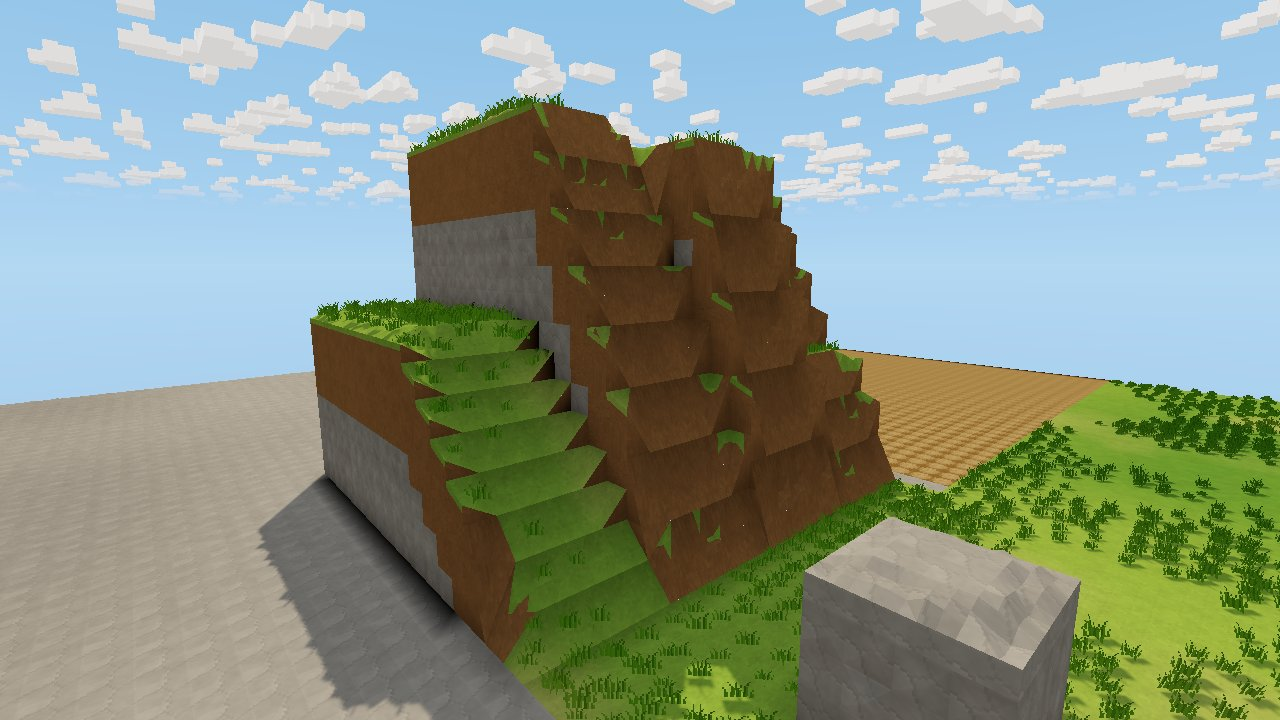
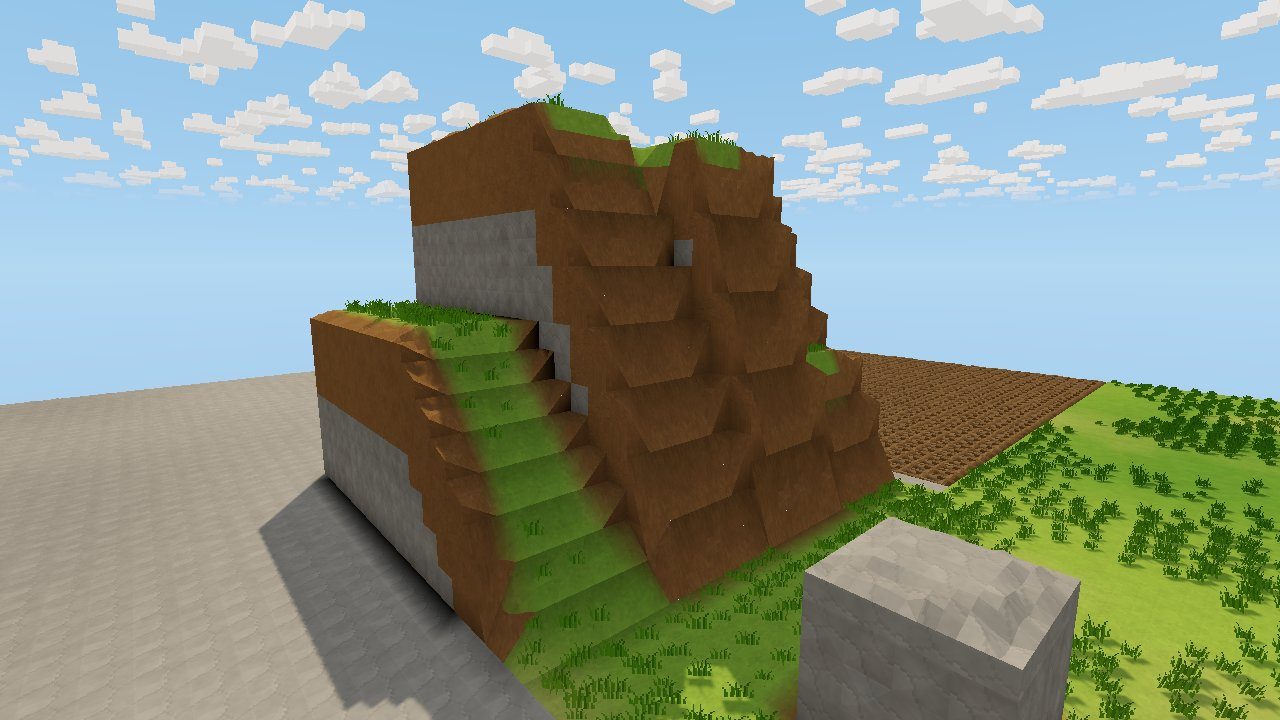
Decide grass versus earth with a continuous steepness field
Grass cover on shaped tops, flat tops, lips and tufts now follows a smooth
world-space terrain gradient from neighboring column tops instead of a
per-cell facet test, so irregular steep hillsides read as one coherent
earth bank. Steepness is memoized per build.

diff --git a/src/voxel/mesher.rs b/src/voxel/mesher.rs
@@ -511,6 +511,7 @@ pub fn build_chunk_mesh(world: &World, chunk: &Chunk) -> MeshData {
                         &mut vertices,
                         &mut indices,
                         &sample,
+                        &shapes,
                         block,
                         shape,
                         (wx, ly, wz),
@@ -523,7 +524,9 @@ pub fn build_chunk_mesh(world: &World, chunk: &Chunk) -> MeshData {
                     && sample(wx, ly + 1, wz) != BlockType::Water
                 {
                     // No tufts on steep banks (their surface dips below this cell).
-                    if shape.as_ref().map_or(true, |s| s.corners.iter().all(|&h| h >= -0.01)) {
+                    if shape.as_ref().map_or(true, |s| s.corners.iter().all(|&h| h >= -0.01))
+                        && shapes.grass_cover([wx as f32 + 0.5, ly as f32 + 1.0, wz as f32 + 0.5]) > 0.5
+                    {
                         push_tufts(&mut vertices, &mut indices, shape.as_ref(), (wx, ly, wz));
                     }
                 }
@@ -654,8 +657,13 @@ pub fn build_chunk_mesh(world: &World, chunk: &Chunk) -> MeshData {
                             // Only a near-level shelf edge gets the lip; steep
                             // bank edges stay earth rather than a green stripe.
                             Some(Palette::Grass) => {
+                                let edge_mid = {
+                                    let [c0, c1, ..] = FACE_VERTS[face_idx];
+                                    [wx as f32 + (c0[0] + c1[0]) * 0.5, ly as f32 + 1.0, wz as f32 + (c0[2] + c1[2]) * 0.5]
+                                };
                                 let shelf = top.iter().all(|&h| (0.4..=1.0001).contains(&h))
-                                    && (top[1] - top[0]).abs() <= 1.0;
+                                    && (top[1] - top[0]).abs() <= 1.0
+                                    && shapes.grass_cover(edge_mid) > 0.5;
                                 let lip = top.map(|h| if shelf { (h - natural::GRASS_LIP).max(0.0) } else { 2.0 });
                                 let soil = atlas::uv_rect(atlas::tile_for(BlockType::Soil, face_idx));
                                 let grass = atlas::uv_rect(atlas::tile_for(BlockType::Grass, 2));
@@ -713,7 +721,12 @@ pub fn build_chunk_mesh(world: &World, chunk: &Chunk) -> MeshData {
                             });
                             tex_layer = natural::NATURAL_FOLIAGE;
                         } else if let Some(palette) = natural {
-                            let albedo = natural::tint(palette, position);
+                            let mut albedo = natural::tint(palette, position);
+                            if palette == Palette::Grass && face_idx == 2 {
+                                let cover = shapes.grass_cover(position);
+                                let soil = natural::tint(Palette::Soil, position);
+                                albedo = std::array::from_fn(|k| soil[k] + (albedo[k] - soil[k]) * cover);
+                            }
                             color = std::array::from_fn(|k| color[k] * albedo[k]);
                             tex_layer = natural::NATURAL_TEX;
                         } else if world.terrain_shaping && block == BlockType::Water && face_idx == 2 {
@@ -773,10 +786,12 @@ fn slope_shade(n: [f32; 3]) -> f32 {
 /// toward the cell's mean slope (restrained smoothing); rock, terraced and
 /// rocky variants keep crisp facets. A small per-cell brightness variation
 /// hints at the editable unit without drawing seams.
-fn push_shaped_top(
+#[allow(clippy::too_many_arguments)]
+fn push_shaped_top<F: Fn(i32, i32, i32) -> BlockType>(
     vertices: &mut Vec<Vertex>,
     indices: &mut Vec<u32>,
-    sample: &impl Fn(i32, i32, i32) -> BlockType,
+    sample: &F,
+    shapes: &shaping::ShapeCache<F>,
     block: BlockType,
     shape: &CellShape,
     (wx, ly, wz): (i32, i32, i32),
@@ -816,16 +831,28 @@ fn push_shaped_top(
     let soil_rect = atlas::uv_rect(atlas::tile_for(BlockType::Soil, 2));
     for (triangle, f) in triangles.iter().zip(&facets) {
         let normal = normalize3(std::array::from_fn(|k| f[k] + (mean[k] - f[k]) * smoothing));
-        // Grass grows on shelves and gentle slopes; steep bank faces are earth.
-        // Judged mostly by the cell's overall slope so bumpy variants don't speckle.
-        let steep = block == BlockType::Grass && f[1] * 0.3 + mean[1] * 0.7 < 0.6;
-        let palette = if steep { natural.map(|_| Palette::Soil) } else { natural };
+        // Grass grows on shelves and gentle slopes, earth on steep banks,
+        // blended by the continuous world-space cover field (no patchwork).
+        let world_point = |p: &[f32; 3]| [wx as f32 + p[0], ly as f32 + p[1], wz as f32 + p[2]];
+        let cover = if block == BlockType::Grass && natural.is_some() {
+            triangle.map(|p| shapes.grass_cover(world_point(&p)))
+        } else {
+            [1.0; 3]
+        };
+        let steep = block == BlockType::Grass && cover.iter().sum::<f32>() < 1.5;
         let uv_rect = if steep { soil_rect } else { uv_rect };
         let shade = slope_shade(normal) * variation;
         let base_index = vertices.len() as u32;
-        for p in triangle {
-            let position = [wx as f32 + p[0], ly as f32 + p[1], wz as f32 + p[2]];
-            let albedo = palette.map_or([1.0; 3], |palette| natural::tint(palette, position));
+        for (p, cover) in triangle.iter().zip(cover) {
+            let position = world_point(p);
+            let albedo = match natural {
+                Some(Palette::Grass) => {
+                    let (grass, soil) = (natural::tint(Palette::Grass, position), natural::tint(Palette::Soil, position));
+                    std::array::from_fn(|k| soil[k] + (grass[k] - soil[k]) * cover)
+                }
+                Some(palette) => natural::tint(palette, position),
+                None => [1.0; 3],
+            };
             vertices.push(Vertex {
                 position,
                 color: albedo.map(|a| a * shade),
@@ -839,7 +866,7 @@ fn push_shaped_top(
                 reflectivity,
                 emission: def.emission,
                 wind: 0.0,
-                tex_layer: if palette.is_some() { natural::NATURAL_TEX } else { 0.0 },
+                tex_layer: if natural.is_some() { natural::NATURAL_TEX } else { 0.0 },
                 glimmer: block.glimmer(),
                 skylight: 1.0,
                 wet: [crate::wetness::absorption(block), -1.],

diff --git a/src/voxel/shaping.rs b/src/voxel/shaping.rs
@@ -168,11 +168,12 @@ pub struct ShapeCache<'a, F: Fn(i32, i32, i32) -> BlockType> {
     sample: &'a F,
     shapes: std::cell::RefCell<std::collections::HashMap<(i32, i32, i32), Option<CellShape>>>,
     tops: std::cell::RefCell<std::collections::HashMap<(i32, i32, i32), i32>>,
+    steepness: std::cell::RefCell<std::collections::HashMap<(i32, i32, i32), f32>>,
 }
 
 impl<'a, F: Fn(i32, i32, i32) -> BlockType> ShapeCache<'a, F> {
     pub fn new(sample: &'a F) -> Self {
-        Self { sample, shapes: Default::default(), tops: Default::default() }
+        Self { sample, shapes: Default::default(), tops: Default::default(), steepness: Default::default() }
     }
 
     pub fn get(&self, x: i32, y: i32, z: i32) -> Option<CellShape> {
@@ -196,6 +197,44 @@ impl<'a, F: Fn(i32, i32, i32) -> BlockType> ShapeCache<'a, F> {
         let shape = shape_with_tops(self.sample, &top_of, x, y, z);
         self.shapes.borrow_mut().insert((x, y, z), shape);
         shape
+    }
+
+    fn top(&self, x: i32, z: i32, reference: i32) -> i32 {
+        if let Some(&top) = self.tops.borrow().get(&(x, z, reference)) {
+            return top;
+        }
+        let top = column_top(self.sample, x, z, reference);
+        self.tops.borrow_mut().insert((x, z, reference), top);
+        top
+    }
+
+    /// How much grass covers world point `p`, 0..=1: one minus a smooth
+    /// world-space steepness field. The field is the terrain gradient from
+    /// neighboring column tops (central differences, rise per cell),
+    /// bilinearly interpolated between column centers. It is continuous
+    /// across cells, so grass and earth form coherent areas instead of a
+    /// per-cell patchwork: a one-cell ledge inside a steep bank reads as bank,
+    /// and wide shelves and gentle slopes stay green.
+    pub fn grass_cover(&self, p: [f32; 3]) -> f32 {
+        let reference = p[1].floor() as i32;
+        let steepness = |x: i32, z: i32| {
+            if let Some(&s) = self.steepness.borrow().get(&(x, z, reference)) {
+                return s;
+            }
+            let t = |dx: i32, dz: i32| self.top(x + dx, z + dz, reference) as f32;
+            let gx = (t(1, 0) - t(-1, 0)) * 0.5;
+            let gz = (t(0, 1) - t(0, -1)) * 0.5;
+            let s = (gx * gx + gz * gz).sqrt();
+            self.steepness.borrow_mut().insert((x, z, reference), s);
+            s
+        };
+        let (fx, fz) = (p[0] - 0.5, p[2] - 0.5);
+        let (x0, z0) = (fx.floor() as i32, fz.floor() as i32);
+        let (tx, tz) = (fx - x0 as f32, fz - z0 as f32);
+        let low = steepness(x0, z0) + (steepness(x0 + 1, z0) - steepness(x0, z0)) * tx;
+        let high = steepness(x0, z0 + 1) + (steepness(x0 + 1, z0 + 1) - steepness(x0, z0 + 1)) * tx;
+        let s = low + (high - low) * tz;
+        1.0 - ((s - 1.1) / 0.6).clamp(0.0, 1.0)
     }
 }
 
@@ -1009,6 +1048,32 @@ mod tests {
         assert_watertight(&world, Vec3::new(24.0, 26.0, 20.0));
         world.set_block(dug.0, dug.1, dug.2, original);
         assert_eq!(positions(&world), before);
+    }
+
+        #[test]
+    fn grass_cover_follows_landform_steepness_continuously() {
+        let world = world_of(&[(0, 0), (1, 0), (0, 1), (1, 1)], crate::voxel::coast::steep_bank((0, 4, 0)));
+        let sample = |x, y, z| world.get_block(x, y, z);
+        let cache = ShapeCache::new(&sample);
+        // Flat ground before the hill, and the middle of the 45-degree row.
+        assert_eq!(cache.grass_cover([1.5, 4.0, 2.5]), 1.0);
+        assert_eq!(cache.grass_cover([7.5, 7.0, 2.5]), 1.0);
+        // The 2:1 bank is earth; the two-column ledge breaking the last row
+        // is a real shelf and stays green.
+        assert_eq!(cache.grass_cover([7.5, 10.0, 7.5]), 0.0);
+        assert!(cache.grass_cover([8.0, 10.0, 17.5]) > 0.5);
+        // A single flat cell between two steep rises reads as bank.
+        let mut notch = world_of(&[(0, 0)], crate::voxel::coast::steep_bank((0, 4, 0)).into_iter().filter(|c| c.0 < 16 && c.2 < 16));
+        notch.set_block(8, 11, 7, BlockType::Air);
+        notch.set_block(8, 10, 7, BlockType::Air);
+        let sample = |x, y, z| notch.get_block(x, y, z);
+        assert!(ShapeCache::new(&sample).grass_cover([8.5, 10.0, 7.5]) < 0.5);
+        // Continuous: tiny moves never jump.
+        for i in 0..200 {
+            let p = [4.0 + i as f32 * 0.07, 9.0, 7.3];
+            let q = [p[0] + 0.01, p[1], p[2]];
+            assert!((cache.grass_cover(p) - cache.grass_cover(q)).abs() < 0.05);
+        }
     }
 
         #[test]

diff --git a/docs/TERRAIN_SHAPING.md b/docs/TERRAIN_SHAPING.md
@@ -59,9 +59,15 @@ steep bank two or three cells tall is therefore one landform shared by the
 stacked cells, not a stack of separately capped blocks. Cells below the column
 top that the surface cuts are of kind `Bank`.
 
-On grass, the parts of the surface steeper than about 53° use earth colour and
-texture, so grass sits on shelves and gentle slopes. Side faces get a grass lip
-only along near-level shelf edges. No tufts grow on banks.
+**Grass versus earth.** This is decided by a continuous world-space
+steepness field (`ShapeCache::grass_cover`), not per cell. The field is the
+terrain gradient from neighbouring column tops (central differences), bilinearly
+interpolated between column centres. Grass blends to earth as the local slope
+rises from 1.1 to 1.7 cells per cell (about 48°–60°). The blend applies to
+shaped tops, flat cube tops, grass lips and tufts. Irregular hillsides
+therefore read as one coherent earth bank rather than a per-cell patchwork:
+a single flat cell between steep rises reads as bank, while a two-cell ledge
+or a 45° slope stays green.
 
 How many corners are high (at 1) picks the shape:
 
